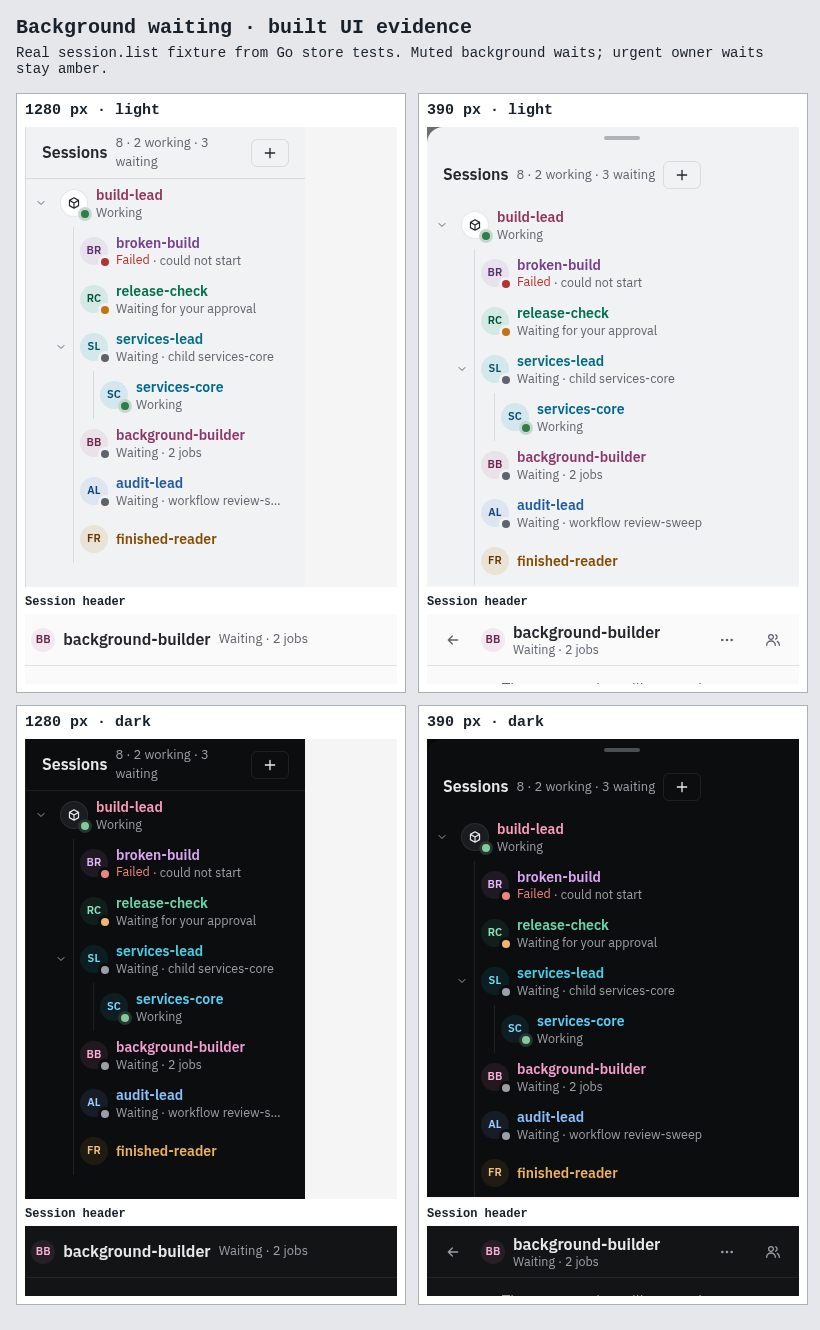
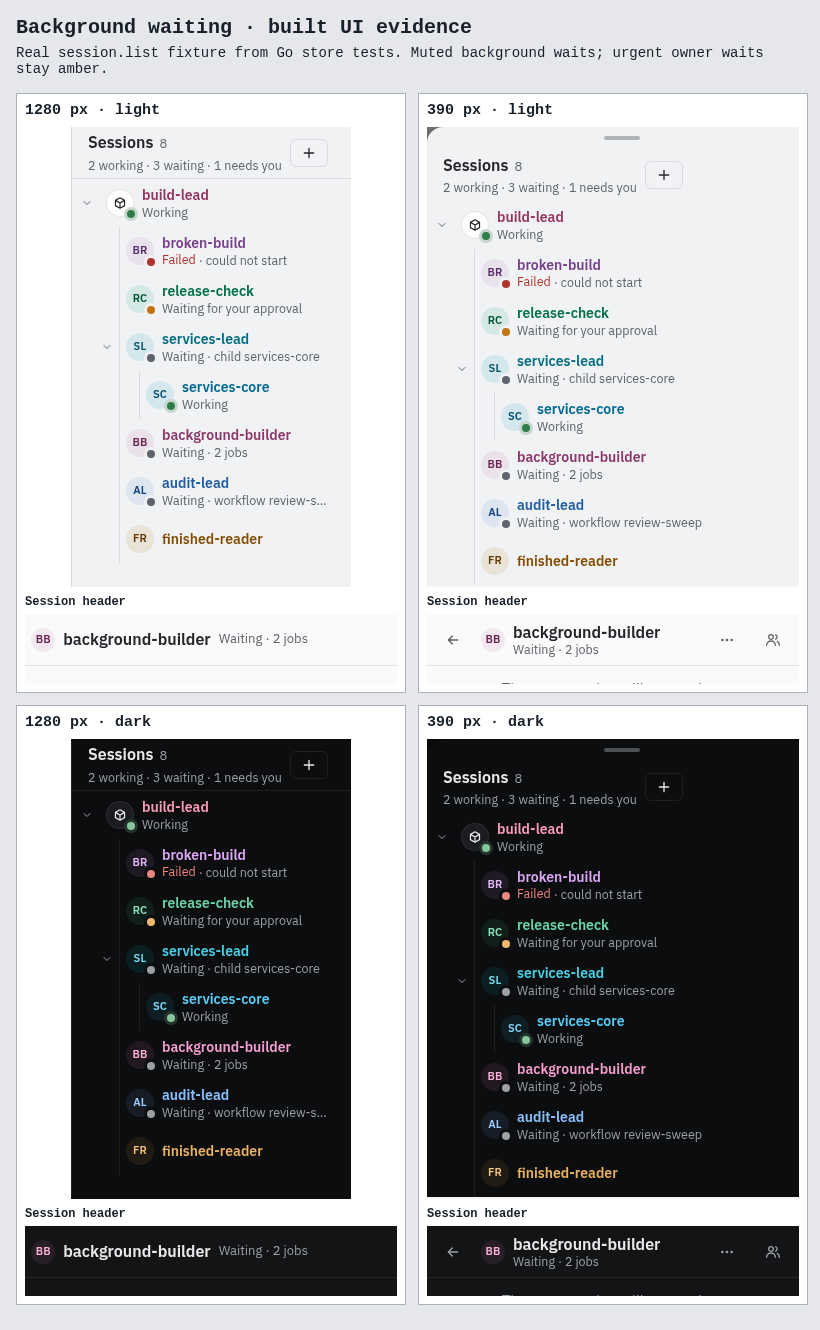
Separate needs-you counts, expose full reasons and correct evidence framing

diff --git a/next/web/src/App.svelte b/next/web/src/App.svelte
@@ -8,7 +8,7 @@
   import { FormDrafts } from "./lib/form-drafts.ts";
   import { ComposerDrafts } from "./lib/composer-drafts.ts";
   import { tick, untrack } from "svelte";
-  import { waitingLabel } from "./lib/status.ts";
+  import { waitingLabel, sessionCountsLine } from "./lib/status.ts";
   import { RoomStore } from "./lib/room.svelte.ts";
   import { ForwardExpiry } from "./lib/forward-clock.ts";
   import { replaceForward, sameForward, undoForward } from "./lib/forward-state.ts";
@@ -598,10 +598,6 @@
     .map(item => { const state = store?.status(item.session);
       return { name: item.name, root: !item.parent, status: state === "idle" ? "" : state === "failed" ? `Failed · ${status(item.session)}` : status(item.session) }; })
     .sort((a, b) => Number(b.root) - Number(a.root) || a.name.localeCompare(b.name)));
-  // The panel's header counts, and the room header's below 761 px where the panel is hidden.
-  // One count source (status.ts): a session that waits for the owner is waiting, not working.
-  let working = $derived(store?.counts.working ?? 0);
-  let background = $derived(store?.counts.background ?? 0);
   let title = $derived(lost ? "Not found" : !room ? "Home" : session ? store?.names.get(session) ?? "Session" : roomName);
   // Each fact shows once: profile, state and trouble live on the session's row. A closed session has no row.
   let closed = $derived(!!session && !!store?.ready && !store.sessions.has(session));
@@ -759,7 +755,7 @@
       {#if session && !closed}<header class="bar tabs">
         <button type="button" aria-pressed={!about} onclick={() => tabs.set(key, "sessions")}>Sessions</button>
         <button type="button" aria-pressed={about} onclick={() => tabs.set(key, "about")}>About</button></header>
-      {:else}<header class="bar"><strong>Sessions</strong>{#if store?.ready}<span class="count">{store.members.length + (working ? ` · ${working} working` : "") + (background ? ` · ${background} waiting` : "")}</span>{/if}{#if attention.can("operate")}<button type="button" class="tool" title="New session" aria-label="New session" onclick={() => openNew("session")}><Icon name="plus" /></button>{/if}</header>{/if}
+      {:else}<header class="bar"><span class="session-summary"><strong>Sessions{#if store?.ready} <span class="count">{store.members.length}</span>{/if}</strong>{#if store?.ready}<span class="count">{sessionCountsLine(store.counts)}</span>{/if}</span>{#if attention.can("operate")}<button type="button" class="tool" title="New session" aria-label="New session" onclick={() => openNew("session")}><Icon name="plus" /></button>{/if}</header>{/if}
       <!-- A long tree renders only its visible rows, through the feed's shared list (spec: long lists are virtual). -->
       {#if about && session && store}<AboutPanel {store} room={room} {session} switchable={attention.can("operate")} shown={panelShown} navigate={openSession} onclosed={() => openLocation(room!)} />
       {:else if tree.length}<div class="tree"><VirtualList bind:this={sessionList} items={tree} key={treeKey}
@@ -805,8 +801,11 @@
   .reload-notice button { margin-left: 4px; padding: 8px 4px; border: 0; background: none; color: inherit; font: inherit; text-decoration: underline; cursor: pointer; }
   /* Two-line rows around the 28 px avatar, as in the chosen mockup: the name, then what the session does. */
   a.member { min-height: 48px; color: var(--text); text-decoration: none; }
-  /* The panel's header matches the room header: a 16 px title with its muted counts beside it. */
+  /* The title keeps the total; the second line separates work, background waits and owner-needed sessions. */
   aside.members > header strong { font-size: 16px; }
+  .session-summary { display: grid; min-width: 0; gap: 1px; }
+  .session-summary > .count { font-size: 12.5px; }
+  .session-summary strong > .count { margin-left: 6px; font-weight: 400; }
   /* The header's face rings its dot in the header's color. */
   main > header { --ring: var(--bg); }
   .feed:has(> :global(.blocked)) > :global(:not(.blocked)) { display: none; }

diff --git a/next/web/src/lib/status.test.ts b/next/web/src/lib/status.test.ts
@@ -1,6 +1,7 @@
 import { test } from "node:test";
 import assert from "node:assert/strict";
-import { statusOf, countOf, urgency } from "./status.ts";
+import { readFileSync } from "node:fs";
+import { statusOf, countOf, urgency, sessionCountsLine } from "./status.ts";
 
 test("background waits do not reuse urgent owner waiting or mask work and failure", () => {
   const facts = { broken: false, waiting: false, working: false, failed: false, background: true };
@@ -11,4 +12,24 @@ test("background waits do not reuse urgent owner waiting or mask work and failur
   assert.equal(statusOf({ ...facts, broken: true, waiting: true }), "failed");
   assert.ok(urgency("waiting") < urgency("background"));
   assert.equal(countOf(["background", "waiting", "working"]).background, 1);
+});
+
+test("session summary separates background waits from needs-you and counts priority once", () => {
+  const plain = { broken: false, waiting: false, working: false, failed: false };
+  const statuses = [
+    statusOf({ ...plain, working: true }), statusOf({ ...plain, working: true }),
+    statusOf({ ...plain, background: true }), statusOf({ ...plain, background: true }), statusOf({ ...plain, background: true }),
+    statusOf({ ...plain, waiting: true, working: true, background: true }),
+    statusOf({ ...plain, broken: true, waiting: true, background: true }), statusOf(plain),
+  ];
+  const counts = countOf(statuses);
+  assert.equal(sessionCountsLine(counts), "2 working · 3 waiting · 1 needs you");
+  assert.equal(sessionCountsLine({ ...counts, waiting: 2 }), "2 working · 3 waiting · 2 need you");
+  assert.deepEqual(counts, { sessions: 8, working: 2, background: 3, waiting: 1, failed: 1, idle: 1 });
+  assert.equal(counts.working + counts.background + counts.waiting + counts.failed + counts.idle, counts.sessions);
+});
+
+test("a truncated session reason has the complete line as its title", () => {
+  const row = readFileSync(new URL("./ui/SessionRow.svelte", import.meta.url), "utf8");
+  assert.match(row, /<span class="line"[^>]*\btitle=\{line\}/);
 });

diff --git a/next/web/src/lib/status.ts b/next/web/src/lib/status.ts
@@ -60,6 +60,12 @@ export function waitingLabel(wait: SessionWaiting): string {
 
 export type Counts = Record<Status, number> & { sessions: number };
 
+// Each session already has one highest-priority status. Background work and
+// owner-needed sessions are separate counts, never two meanings of "waiting".
+export function sessionCountsLine(counts: Counts): string {
+  return [counts.working && `${counts.working} working`, counts.background && `${counts.background} waiting`, counts.waiting && `${counts.waiting} ${counts.waiting === 1 ? "needs" : "need"} you`].filter(Boolean).join(" · ");
+}
+
 export function countOf(all: Iterable<Status>): Counts {
   const counts: Counts = { sessions: 0, waiting: 0, failed: 0, working: 0, background: 0, idle: 0 };
   for (const status of all) { counts.sessions++; counts[status]++; }

diff --git a/next/web/src/lib/ui/SessionRow.svelte b/next/web/src/lib/ui/SessionRow.svelte
@@ -18,7 +18,7 @@
 
 <SessionFace {name} {root} {dot} {mark} />
 <span class="who"><span class="name" class:quiet style:--hue={hue(name)}>{name}</span>
-  {#if line || state === "failed"}<span class="line" class:split={state === "failed"} class:ask={state === "waiting"}>{#if state === "failed"}<StatusPill tone="failed" word label="Failed" />{#if line}<span class="reason">{` · ${line}`}</span>{/if}{:else}{line}{/if}</span>{/if}</span>
+  {#if line || state === "failed"}<span class="line" title={line} class:split={state === "failed"} class:ask={state === "waiting"}>{#if state === "failed"}<StatusPill tone="failed" word label="Failed" />{#if line}<span class="reason">{` · ${line}`}</span>{/if}{:else}{line}{/if}</span>{/if}</span>
 
 <style>
   .who { flex: 1; min-width: 0; display: grid; line-height: 1.3; }
